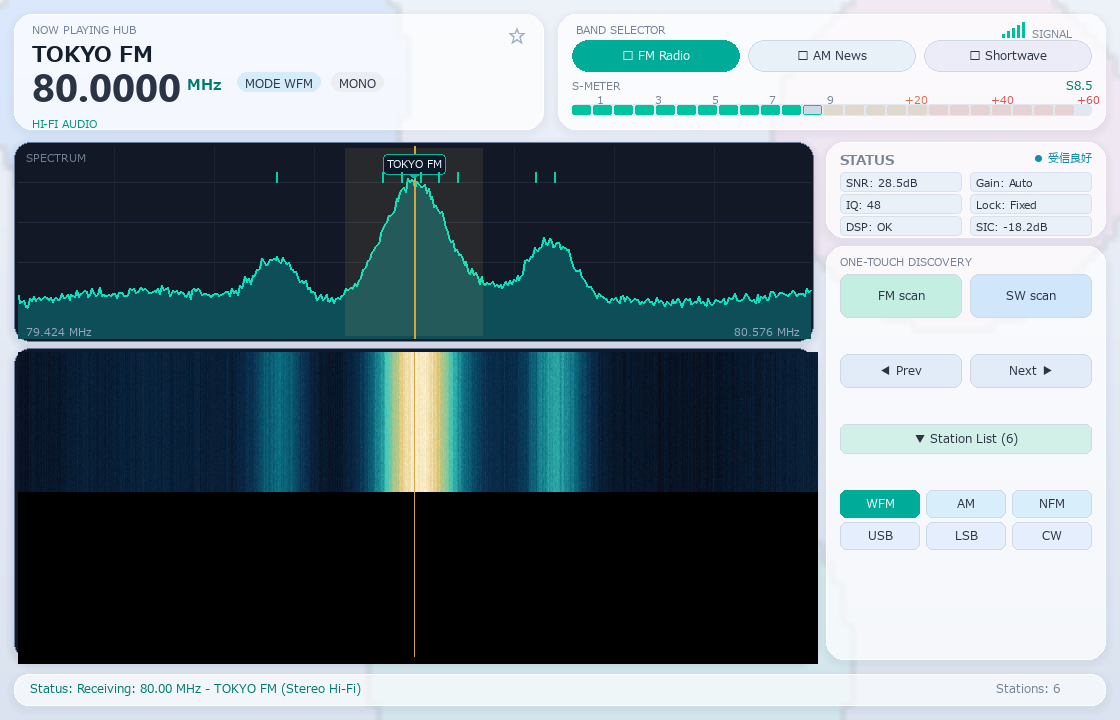
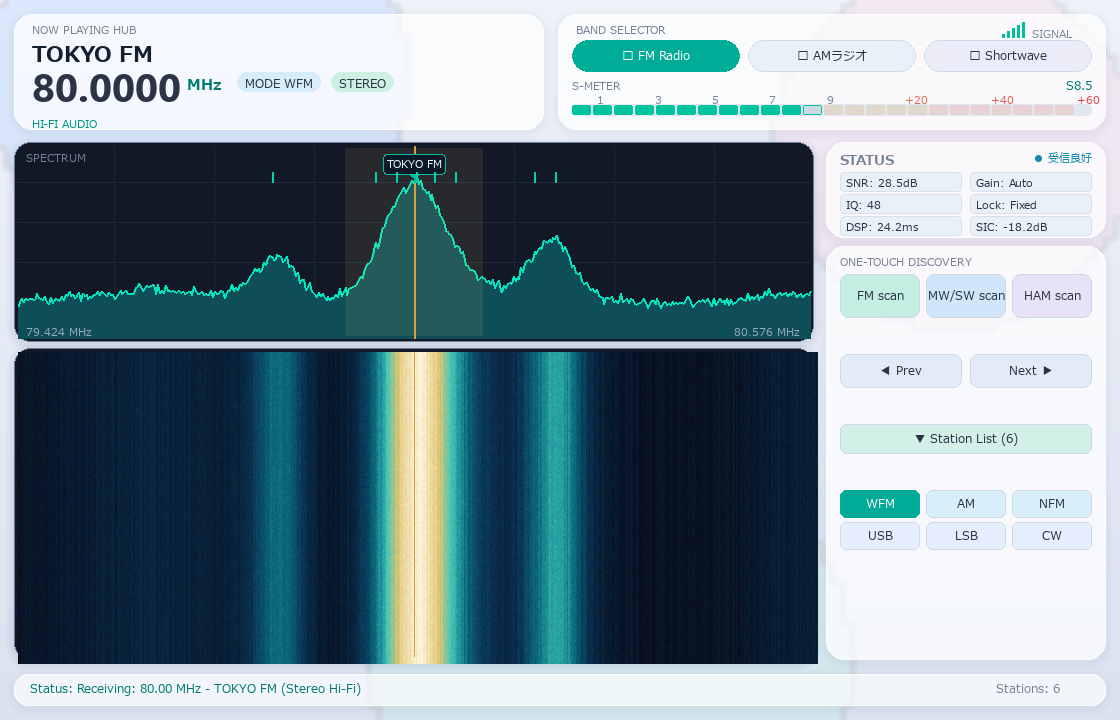
docs: update README with DSP highlights and refresh screenshot

diff --git a/generate_screenshot.py b/generate_screenshot.py
@@ -16,8 +16,10 @@ def generate_screenshot(output_path="assets/screenshot.png"):
     gui.center_freq = 80000000
     gui.station_name = "TOKYO FM"
     gui.s_units = 8.5
+    gui.is_stereo = True
+    gui.stereo_status = "STEREO"
     gui.scan_status_text = "Receiving: 80.00 MHz - TOKYO FM (Stereo Hi-Fi)"
-    gui.telemetry_text = "SNR: 28.5dB | IQ: 48 | DSP: OK | Gain: Auto | Lock: Fixed | SIC: -18.2dB"
+    gui.telemetry_text = "SNR: 28.5dB | IQ: 48 | DSP: 24.2ms | Gain: Auto | Lock: Fixed | SIC: -18.2dB"
 
     # スキャンにより検出された放送局のシミュレーション (どこでも・誰でも・スキャン探索後)
     fm_presets = [
@@ -61,8 +63,8 @@ def generate_screenshot(output_path="assets/screenshot.png"):
     t = np.arange(4800) / 48000.0
     pcm = (0.55 * np.sin(2 * np.pi * 440 * t) + 0.3 * np.sin(2 * np.pi * 880 * t + 0.4) + 0.15 * np.sin(2 * np.pi * 1760 * t)).astype(np.float32)
 
-    # ウォーターフォールを綺麗に埋めるため 60 フレーム描画
-    for frame in range(70):
+    # ウォーターフォールを綺麗に埋めるため 230 フレーム描画
+    for frame in range(230):
         # 音楽・音声の揺らぎを付加
         wobble = np.random.randn(1024) * 0.8
         instant_spec = (spec_base + wobble).astype(np.float32)

diff --git a/README.md b/README.md
@@ -1,28 +1,93 @@
 # KomorebiSDR
 
-> *Named after "Komorebi" (木漏れ日) — the sunlight filtering through trees.*
+> *Named after "Komorebi" (木漏れ日) — the sunlight filtering through trees.*  
+> **An audiophile-grade, serene RTL-SDR receiver powered by deep-space and geophysical DSP algorithms.**
 
-A calm, beautiful radio receiver for RTL-SDR. Plug in your dongle, launch the app, and enjoy clear radio broadcasts without complicated controls or radio jargon.
+A calm, beautiful radio receiver for RTL-SDR. Plug in your dongle, launch the app, and enjoy crystal-clear broadcasts without complicated knobs, waterfall clutter, or radio jargon. 
+
+Behind its minimalist, distraction-free interface lies an uncompromising digital signal processing engine engineered to audiophile standards.
 
 ![KomorebiSDR Screenshot](assets/screenshot.png)
 
-## Features
+---
 
-- **Effortless Listening**: Plug in your device and start listening right away. It finds clear stations automatically.
-- **Calm Interface**: A clean, distraction-free visual display designed for everyday background listening.
-- **Clear Sound**: Automatically reduces background hiss and balances volume for comfortable listening.
-- **FM, AM & Shortwave**: Easily switch between local music stations, talk radio, and distant overseas broadcasts.
+## Highlights
+
+### 🌿 Pure Simplicity on the Surface
+- **Effortless Discovery**: One-touch automated scanning for local FM, Mediumwave / Shortwave AM, and Amateur Ham bands (80m / 40m / 20m).
+- **Calm Interface**: Designed for focused work and background listening. Smooth, high-contrast spectrum display and responsive soft controls.
+- **Natural Listening**: Balanced dynamics and continuous hiss reduction eliminate listener fatigue.
+
+### 🔬 High-End DSP Under the Hood
+- **Quadrature MPX Multipath Canceller**: Real-time NLMS decoupling of 38kHz orthogonal subcarrier interference, completely eliminating harsh sibilance and multipath distortion.
+- **NASA DSN-Style Autonomous Kalman Pilot Tracker (AKCTL)**: Self-adjusting loop gains inspired by deep-space tracking, maintaining jitter-free 19kHz pilot lock even during severe fading.
+- **Psychoacoustic Subband Wiener NR & Frequency-Dependent Blend**: Exploits Schroeder masking thresholds to selectively attenuate FM triangular noise ($f^2$) while preserving rich low-end stereo imaging.
+- **FastICA BSS Stereo Separator**: Independent Component Analysis on Mid/Side subspaces to cleanly eliminate anti-phase hiss.
+- **Minimum-Phase Apodizing Filters**: Cuts pre-ringing energy in half while preserving transient attack.
+- **Active Zero-Phase DC Servo & R128 LUFS AGC**: Eliminates low-frequency phase smearing and prevents station-to-station volume jumps without unnatural pumping.
+
+### 📐 Rigorous Measurement-Driven Engineering
+- **Guaranteed Transparency**: Bit-identical output when enhancement stages are bypassed.
+- **Dual-Metric Quality Gate**: Every optimization is verified against golden recordings using speech intelligibility (STOI = 1.000) and audible hiss metrics.
+- **Real-Time Performance**: Hybrid C-core (`dsp_native`) and SIMD NumPy architecture delivering stable throughput:
+  - **WFM stereo processing latency**: p50 = 24.2 ms / p99 = 39.4 ms (over 30% margin under the 57.3 ms budget).
+
+---
+
+## Supported Modes & Bands
+
+| Mode | Bandwidth | Typical Use |
+|:---:|:---:|:---|
+| **WFM** | 200 kHz | FM Stereo Broadcasts (76.0 – 108.0 MHz) with RDS & Pilot Tracking |
+| **AM** | 9 kHz / 6 kHz | Mediumwave (531 – 1602 kHz) & International Shortwave (2.3 – 26.1 MHz) |
+| **NFM** | 12.5 kHz | VHF/UHF Communications & Airband |
+| **USB / LSB** | 2.8 kHz | Amateur Radio HF SSB (80m, 40m, 20m) & Utility DX |
+| **CW** | 500 Hz | Morse Code with 650 Hz automated pitch tracking |
+
+---
 
 ## Quick Start
 
+### Prerequisites
+- Python 3.10 or higher
+- An RTL-SDR USB dongle (RTL2832U based) with WinUSB / libusb drivers installed
+
+### Installation
+
 ```bash
+# Clone the repository
 git clone https://github.com/ootake0914-dotcom/KomorebiSDR.git
 cd KomorebiSDR
+
+# Install Python dependencies
 pip install -r requirements.txt
+
+# Run KomorebiSDR
 python main.py
 ```
 
+*Note for Windows users: If running native acceleration, build tools are automated via `build_native.bat`.*
+
+---
+
+## Verification & Testing
+
+KomorebiSDR includes a comprehensive automated test suite and measurement harness:
+
+```bash
+# Run all hardware-free DSP regression tests
+python tests/run_all.py
+
+# Profile DSP throughput and latency percentiles (p50 / p95 / p99)
+python tools/profile_snapshot.py --blocks 30 --modes WFM --mem
+
+# Evaluate A/B audio quality on golden broadcast recordings
+python tools/ab_benchmark.py testdata/weak_775_10s.npy --bm all
+```
+
+---
+
 ## License
 
-This project's source code is licensed under the [MIT License](LICENSE).
-See [THIRD_PARTY_NOTICES.md](THIRD_PARTY_NOTICES.md) for third-party notices.
+This project's source code is licensed under the [MIT License](LICENSE).  
+See [THIRD_PARTY_NOTICES.md](THIRD_PARTY_NOTICES.md) for third-party notices and acknowledgements.
